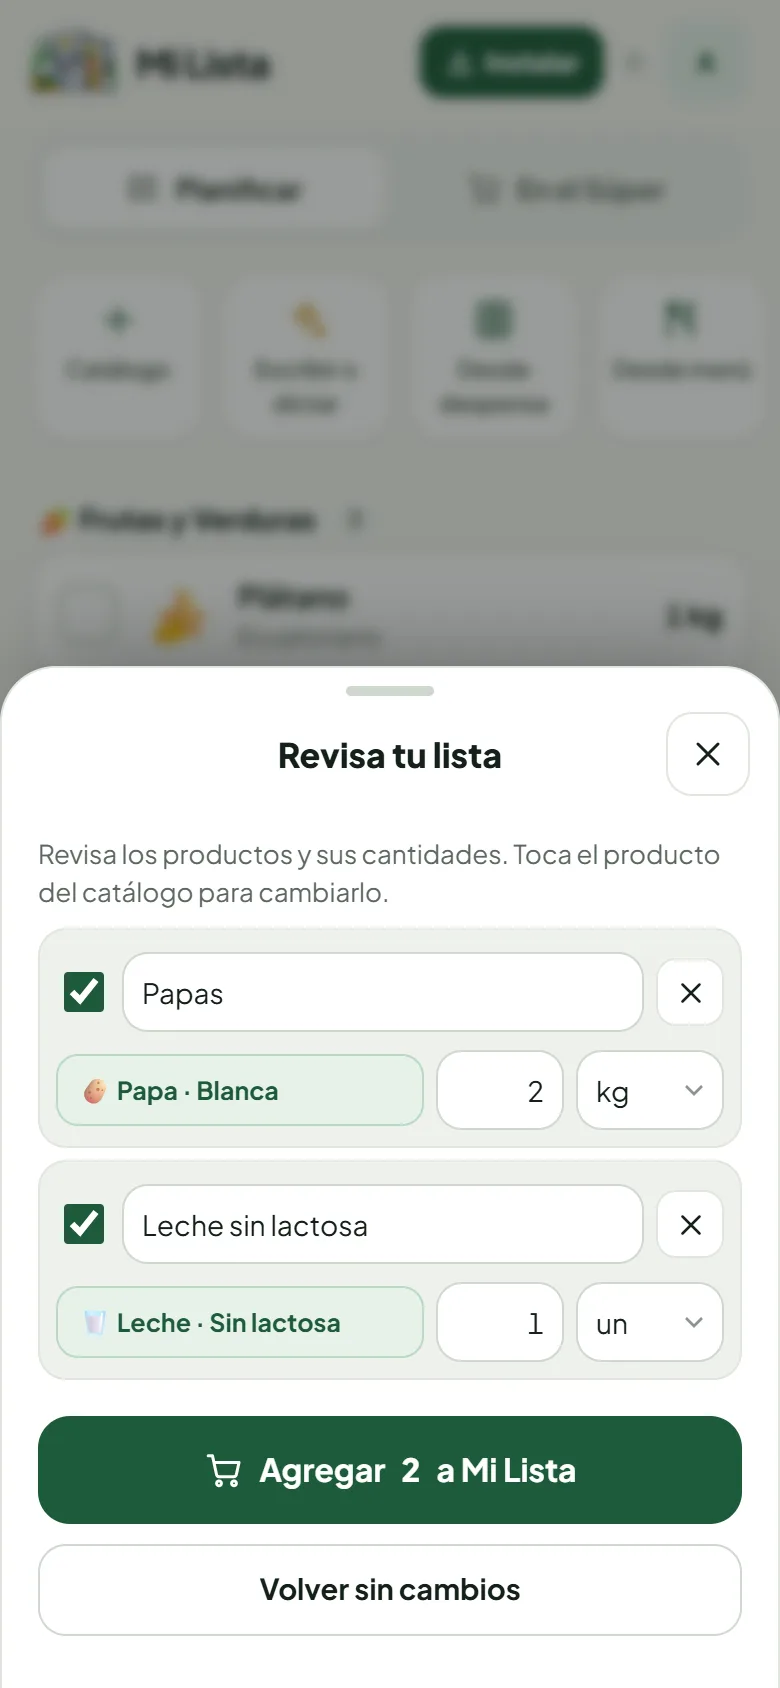
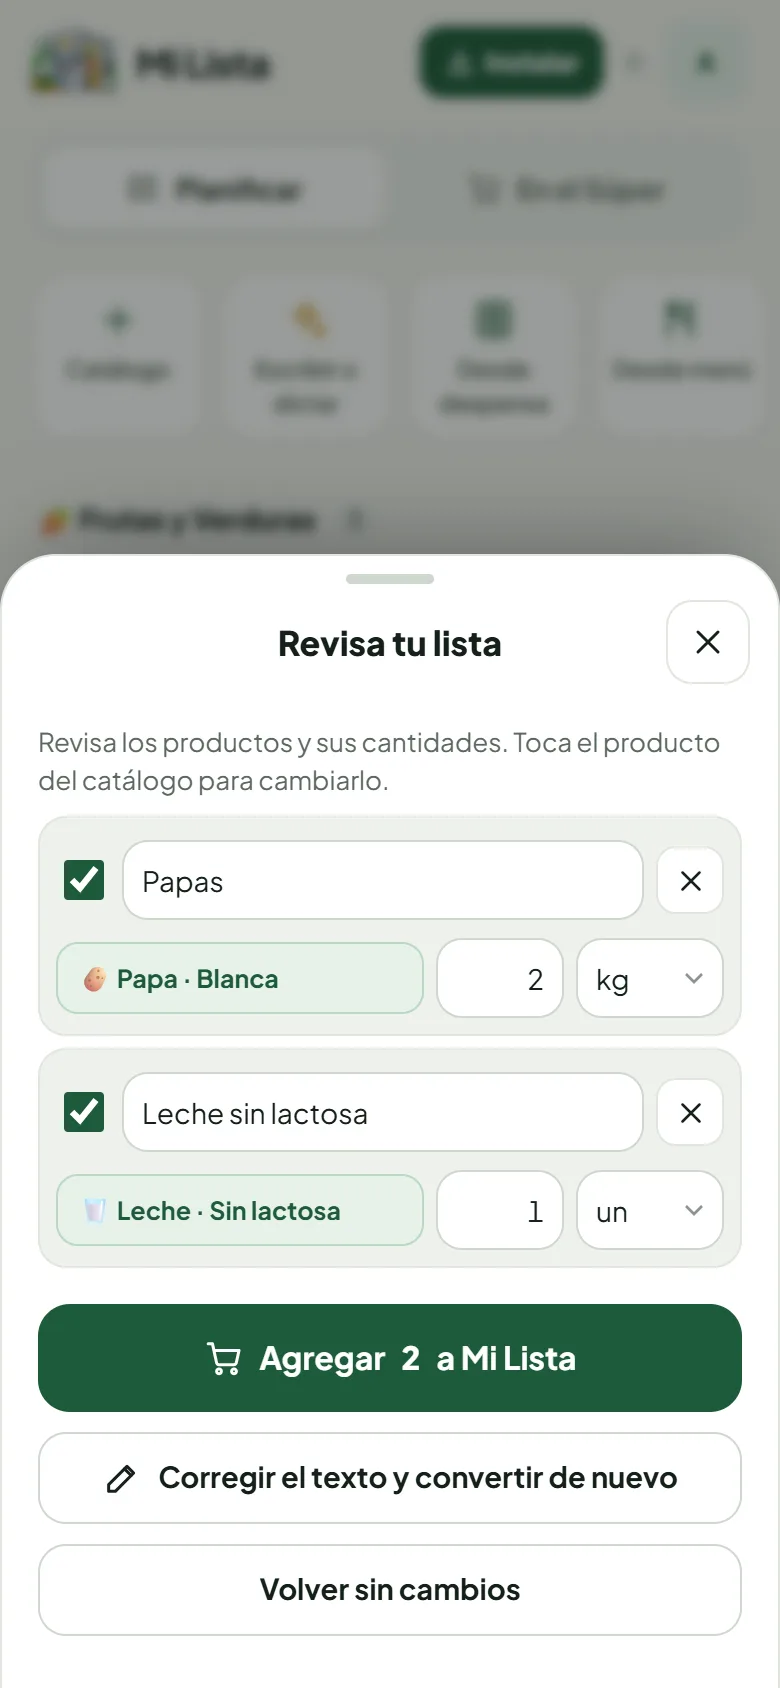
v2.1.0: "Plata" pasa a "Gastos" y dictado que entiende correcciones
- La sección Plata ahora se llama Gastos (app, manual, manifest, README)
- La IA aplica las correcciones al dictar ("no, mejor 3", "olvida la leche", "digo")
- Volver a corregir el texto desde la revisión de la lista; dictado en el Chef IA
- Se muestra que dictar no gasta y cuántos usos de IA quedan
- Manual: explicación de correcciones y uso, pregunta frecuente nueva

diff --git a/js/views/ai.js b/js/views/ai.js
@@ -108,7 +108,7 @@ const AIView = (() => {
       ${UI.chips(Money.CATS.filter(([c]) => c !== 'Ajuste').map(([c, e]) => [c, `${e} ${c}`]), h.categoria, 'aiCat')}
       <label class="lbl">Detalle</label><input value="${esc(h.detalle)}" placeholder="Ej: Compra semanal (verduras, lácteos)" data-input="aiHead" data-f="detalle">
       <label class="ai-switch"><input type="checkbox" ${rv.pantry ? 'checked' : ''} data-change="aiPantryOn"><span><b>Guardar productos en la despensa</b><small>Agrega a la despensa los productos marcados.</small></span></label>
-      ${rv.dest === 'despensa' ? `<label class="ai-switch"><input type="checkbox" ${rv.expense ? 'checked' : ''} data-change="aiExpenseOn"><span><b>Registrar también el gasto</b><small>Crea el gasto en Plata con la boleta de respaldo.</small></span></label>` : ''}
+      ${rv.dest === 'despensa' ? `<label class="ai-switch"><input type="checkbox" ${rv.expense ? 'checked' : ''} data-change="aiExpenseOn"><span><b>Registrar también el gasto</b><small>Crea también el gasto, con la boleta de respaldo.</small></span></label>` : ''}
       <div class="btn-col">
         <button class="btn primary block lg" data-act="aiUseBoleta">${ico('check')} Usar estos datos</button>
         <button class="btn ghost block" data-act="aiCancel">Volver sin cambios</button>
@@ -162,15 +162,19 @@ const AIView = (() => {
         </div>`).join('') || UI.empty('search', 'No se encontró nada', 'Intenta con otra foto o escribe los productos.')}</div>
       <div class="btn-col">
         <button class="btn primary block lg" data-act="aiListGo">${ico(isList ? 'cart' : 'pantry')} Agregar <b id="aiGoCount">${rv.rows.filter(r => r.on).length}</b> a ${isList ? 'Mi Lista' : 'la despensa'}</button>
+        ${isList ? `<button class="btn ghost block" data-act="aiListBack">${ico('edit')} Corregir el texto y convertir de nuevo</button>` : ''}
         <button class="btn ghost block" data-act="aiCancel">Volver sin cambios</button>
       </div>`;
   }
+  // Vuelve al texto (se conserva) para corregirlo; reconvertir usa 1 uso de IA
+  Actions.aiListBack = () => { run++; UI.replace('Lista con IA', listaSheet); };
   Actions.aiListGo = () => {
     const rows = rv.rows.filter(r => r.on && r.cant > 0);
     if (!rows.length) { UI.toast('No hay productos marcados', { type: 'err' }); return; }
     if (rv.kind === 'lista') {
       rows.forEach(r => { const m = r.m || AI.ensureCustom(r.nombre, AI.unit(r.unidad)); Shop.add(m.c, m.i, m.v, r.cant, AI.unit(r.unidad), '· con IA'); });
       Store.log('shop', `agregó ${rows.length} productos a la lista con IA`);
+      draftText = '';
     } else {
       toPantry(rows);
       Store.log('pantry', `agregó ${rows.length} productos a la despensa desde una foto (IA)`);
@@ -197,24 +201,29 @@ const AIView = (() => {
   let draftText = '';
   function listaSheet() {
     const Rec = window.SpeechRecognition || window.webkitSpeechRecognition;
-    return `<p class="hint">Escribe o dicta lo que necesitas, como se lo dirías a alguien. La IA lo convierte en tu lista.</p>
+    return `<p class="hint">Escribe o dicta lo que necesitas, como se lo dirías a alguien. Si te equivocas, corrígete hablando ("no, mejor 3 kilos") o edita el texto antes de convertir.</p>
       <textarea id="aiText" rows="5" placeholder="Ej: 2 kilos de papas, leche sin lactosa, pan para la once y algo para el asado del sábado" data-input="aiText">${esc(draftText)}</textarea>
-      ${Rec ? `<button class="btn ghost block" data-act="aiMic" id="aiMicBtn">${ico('mic')} Dictar</button>` : ''}
+      ${Rec ? `<button class="btn ghost block" data-act="aiMic" data-target="aiText">${ico('mic')} Dictar</button>` : ''}
       <div class="chips">${['Lo de siempre para el desayuno', 'Algo para el asado', 'Once para 6 personas', 'Útiles de aseo del mes'].map(x => `<button class="chip" data-act="aiExample" data-val="${esc(x)}">${esc(x)}</button>`).join('')}</div>
-      <button class="btn primary block lg" data-act="aiListaGo">${ico('sparkles')} Convertir en lista</button>`;
+      <button class="btn primary block lg" data-act="aiListaGo">${ico('sparkles')} Convertir en lista</button>
+      <p class="hint center">${ico('info')} Dictar y editar no gastan nada; cada “Convertir” usa 1 de tus usos de IA del día${AI.left() != null ? ` (te quedan ${AI.left()})` : ''}.</p>`;
   }
   Actions.aiText = el => { draftText = el.value; };
   Actions.aiExample = el => { draftText = (draftText ? draftText.trim() + ', ' : '') + el.dataset.val.toLowerCase(); UI.refresh(); };
+  // Dictado con el reconocimiento de voz del teléfono (no usa la IA ni gasta usos)
   let rec = null;
   Actions.aiMic = el => {
     const Rec = window.SpeechRecognition || window.webkitSpeechRecognition;
     if (rec) { rec.stop(); return; }
-    rec = new Rec(); rec.lang = 'es-CL'; rec.interimResults = false; rec.continuous = true;
-    const base = draftText ? draftText.trim() + ', ' : '';
-    let said = '';
-    rec.onresult = e => { said = [...e.results].map(r => r[0].transcript).join(' '); const t = $('#aiText'); draftText = base + said; if (t) t.value = draftText; };
-    rec.onend = () => { rec = null; const b = $('#aiMicBtn'); if (b) b.innerHTML = `${ico('mic')} Dictar`; };
-    rec.onerror = () => { UI.toast('No se pudo usar el micrófono', { type: 'err' }); };
+    const target = el.dataset.target || 'aiText';
+    const box = () => $('#' + target);
+    const save = v => { if (target === 'chefPedido') chef.pedido = v; else draftText = v; };
+    const start = (box() || {}).value || '';
+    const base = start.trim() ? start.trim() + (target === 'chefPedido' ? ' ' : ', ') : '';
+    rec = new Rec(); rec.lang = 'es-CL'; rec.interimResults = true; rec.continuous = true;
+    rec.onresult = e => { const said = [...e.results].map(r => r[0].transcript).join(' '); const v = base + said; save(v); const t = box(); if (t) t.value = v; };
+    rec.onend = () => { rec = null; const btn = $(`[data-act="aiMic"][data-target="${target}"]`); if (btn) btn.innerHTML = `${ico('mic')} Dictar`; };
+    rec.onerror = ev => { if (ev.error !== 'aborted' && ev.error !== 'no-speech') UI.toast('No se pudo usar el micrófono', { type: 'err' }); };
     rec.start();
     el.innerHTML = `${ico('mic')} Escuchando… toca para terminar`;
   };
@@ -231,7 +240,6 @@ const AIView = (() => {
       if (!alive(my)) return;
       rv = { kind: 'lista', retry: rv.retry, rows: j.data.items.map(it => ({ ...it, m: AI.match(it), on: true })) };
       UI.replace('Revisa tu lista', listSheet);
-      draftText = '';
     } catch (e) { fail(my, e, rv.retry); }
   };
   function openLista() { if (!can()) return; UI.open('Lista con IA', listaSheet); }
@@ -250,6 +258,7 @@ const AIView = (() => {
       ${UI.chips([['', 'Sin apuro'], ['15 minutos', '15 min'], ['30 minutos', '30 min'], ['1 hora', '1 hora']], chef.tiempo, 'chefTiempo')}
       <label class="lbl">¿Qué se te antoja? <small class="hint">(opcional)</small></label>
       <input id="chefPedido" value="${esc(chef.pedido)}" placeholder="Ej: algo calentito, sin horno, para llevar al trabajo…">
+      ${window.SpeechRecognition || window.webkitSpeechRecognition ? `<button class="btn ghost sm block" data-act="aiMic" data-target="chefPedido">${ico('mic')} Dictar</button>` : ''}
       ${restr.length ? `<div class="info">${ico('leaf')} Respetará: ${restr.map(esc).join(' · ')}</div>` : ''}
       <button class="btn primary block lg" data-act="chefGo">${ico('sparkles')} Proponer receta</button>`;
   }
@@ -261,7 +270,7 @@ const AIView = (() => {
   Actions.chefVenc = el => { chef.venc = el.checked; };
   Actions.chefPeople = el => { chef.pedido = ($('#chefPedido') || {}).value || chef.pedido; chef.people = Math.max(1, chef.people + (+el.dataset.d)); UI.refresh(); };
   Actions.chefTiempo = el => { chef.pedido = ($('#chefPedido') || {}).value || chef.pedido; chef.tiempo = el.dataset.val; UI.refresh(); };
-  Actions.chefGo = () => { const p = $('#chefPedido'); if (p) chef.pedido = p.value.trim(); UI.close(); chefCall(); };
+  Actions.chefGo = () => { if (rec) rec.stop(); const p = $('#chefPedido'); if (p) chef.pedido = p.value.trim(); UI.close(); chefCall(); };
   async function chefCall() {
     const all = Pantry.entries().filter(e => !Pantry.isEmpty(e));
     const exp = chef.venc ? Pantry.expiring().filter(e => !Pantry.isEmpty(e)) : [];
@@ -347,7 +356,7 @@ const AIView = (() => {
             method: res.medioPago || 'Débito', docType: res.tipoDoc || 'Boleta', docNum: res.nDoc, photos: photoId ? [photoId] : [], files: docMeta ? [docMeta] : [], notes: 'Leída con IA', items, created: Store.now(), t: Store.now(),
           });
           Store.log('money', `registró una boleta de ${Money.fmt(res.total)} leída con IA`);
-          UI.toast(`Gasto de ${Money.fmt(res.total)} registrado en Plata`, { icon: 'receipt' });
+          UI.toast(`Gasto de ${Money.fmt(res.total)} registrado en Gastos`, { icon: 'receipt' });
         }
         Store.commit();
       },

diff --git a/manual/index.html b/manual/index.html
@@ -67,7 +67,7 @@
     <h1>Manual de uso</h1>
     <p>Todo lo que necesitas para controlar la despensa, comprar sin salirte del presupuesto, planificar el menú y llevar las cuentas claras del hogar.</p>
     <div class="meta">
-      <span class="tag">Versión 2.0.0</span>
+      <span class="tag">Versión 2.1.0</span>
       <span class="tag">Actualizado: 1 de noviembre de 2026</span>
       <span class="tag">37 pantallas</span>
     </div><br>
@@ -76,7 +76,7 @@
 
   <nav class="toc"><div class="wrap">
     <a href="#instalar">Instalar</a><a href="#inicio">Primeros pasos</a><a href="#despensa">Despensa</a><a href="#lista">Lista y Súper</a>
-    <a href="#menu">Menú y recetas</a><a href="#salud">Dietas y salud</a><a href="#plata">Plata</a><a href="#digitales">Boletas digitales</a><a href="#separadas">Cuentas separadas</a><a href="#ia">Funciones con IA</a><a href="#hogar">Hogares</a><a href="#apariencia">Apariencia</a><a href="#faq">Preguntas</a><a href="#cambios">Novedades</a>
+    <a href="#menu">Menú y recetas</a><a href="#salud">Dietas y salud</a><a href="#plata">Gastos</a><a href="#digitales">Boletas digitales</a><a href="#separadas">Cuentas separadas</a><a href="#ia">Funciones con IA</a><a href="#hogar">Hogares</a><a href="#apariencia">Apariencia</a><a href="#faq">Preguntas</a><a href="#cambios">Novedades</a>
   </div></nav>
 
   <main class="wrap">
@@ -330,7 +330,7 @@
     </section>
 
     <section class="ch" id="plata">
-      <h2><span class="n">7</span>Plata: presupuesto, gastos y cuentas claras</h2>
+      <h2><span class="n">7</span>Gastos: presupuesto, boletas y cuentas claras</h2>
       <div class="step">
         <div class="phone"><img src="img/17-plata.webp" alt="Finanzas" loading="lazy"></div>
         <div>
@@ -396,7 +396,7 @@
         <div>
           <h3>Dónde está</h3>
           <ul>
-            <li>En <b>Plata</b>, botón verde <b>Cuentas separadas</b>: elige una boleta del historial o crea una <b>Nueva boleta dividida</b>.</li>
+            <li>En <b>Gastos</b>, botón verde <b>Cuentas separadas</b>: elige una boleta del historial o crea una <b>Nueva boleta dividida</b>.</li>
             <li>Dentro de cualquier gasto del historial, recuadro <b>Cuentas separadas → Dividir</b> (o <b>Editar</b> si ya está dividida).</li>
             <li>Las boletas divididas muestran la etiqueta <b>dividida</b> en Movimientos.</li>
           </ul>
@@ -454,7 +454,7 @@
           <h3>Despensa con IA</h3>
           <p>En <b>Despensa</b>, el botón ✦ junto al buscador ofrece dos opciones:</p>
           <ul>
-            <li><b>Boleta del súper:</b> pasa lo comprado a la despensa y, si quieres, registra el gasto en Plata con la boleta de respaldo.</li>
+            <li><b>Boleta del súper:</b> pasa lo comprado a la despensa y, si quieres, registra el gasto con la boleta de respaldo.</li>
             <li><b>Foto del refri o la despensa:</b> la IA reconoce los productos que se ven y propone el inventario. Los dudosos vienen desmarcados.</li>
           </ul>
           <p class="tip">Toca el recuadro celeste de cada fila para cambiar el producto del catálogo; si no hay coincidencia aparece en amarillo “Elegir producto”.</p>
@@ -470,6 +470,8 @@
             <li>Si pides algo general (“algo para el asado”), la IA propone productos típicos marcados como <b>sugerido</b>.</li>
             <li>Revisa cantidades y productos, y toca <b>Agregar a Mi Lista</b>.</li>
           </ol>
+          <p class="tip"><b>¿Te enredaste?</b> Corrígete hablando, como con una persona: “2 kilos de papas, no, mejor 3”, “leche… no, olvida la leche” o “arroz, digo, fideos”. La IA se queda con tu última decisión. También puedes editar el texto antes de convertir, o tocar <b>Corregir el texto y convertir de nuevo</b> desde la revisión.</p>
+          <p class="tip"><b>¿Gasta?</b> Dictar y editar el texto lo hace el teléfono y no usa la IA. Solo cada vez que tocas <b>Convertir</b> se usa 1 de tus 40 usos diarios. Todo es gratis.</p>
         </div>
       </div>
       <div class="step rev">
@@ -481,6 +483,7 @@
             <li>Elige personas, tiempo y, si quieres, lo que se te antoja. Propone <b>una receta casera</b> que prioriza lo que vence y respeta las dietas, alergias y condiciones de salud de la casa.</li>
             <li>Muestra qué ingredientes tienes y cuáles faltan. Con <b>Guardar en mi recetario</b> queda como receta propia: desde ahí puedes agendarla, mandar los faltantes a la lista o cocinarla, con los mismos <b>avisos de salud</b> de siempre.</li>
             <li><b>Otra idea</b> pide una receta distinta.</li>
+            <li>En “¿Qué se te antoja?” también puedes tocar <b>Dictar</b>; si cambias de idea al hablar (“algo con pollo, no, mejor sin carne”), se respeta lo último que dijiste.</li>
           </ul>
         </div>
       </div>
@@ -552,6 +555,7 @@
 
     <section class="ch" id="faq">
       <h2><span class="n">?</span>Preguntas frecuentes</h2>
+      <details><summary>Si dicto la lista y me equivoco, ¿qué pasa?</summary><p>La IA entiende correcciones habladas (“no, mejor…”, “olvida…”, “digo…”) y usa tu última decisión. Antes de agregar nada siempre ves la lista para corregir cantidades, quitar productos o volver al texto. Dictar no gasta usos de IA; solo cada “Convertir”.</p></details>
       <details><summary>¿Funciona sin internet?</summary><p>Sí. Todo se guarda en el teléfono. Si el hogar es compartido, los cambios se sincronizan al recuperar la conexión. Solo la lectura automática de boletas necesita internet.</p></details>
       <details><summary>¿Dónde quedan las fotos de las boletas?</summary><p>En el teléfono, comprimidas. En un hogar compartido también se suben para que los demás las vean.</p></details>
       <details><summary>Cambié algo y otro integrante también, ¿se pierde algo?</summary><p>No. La app combina los cambios producto por producto y gasto por gasto; si dos personas editan el mismo producto, queda el último cambio.</p></details>
@@ -561,6 +565,15 @@
 
     <section class="ch" id="cambios">
       <h2><span class="n">★</span>Novedades</h2>
+      <div class="log">
+        <h4>Versión 2.1.0 — 1 de noviembre de 2026</h4>
+        <ul>
+          <li>La sección <b>Plata</b> ahora se llama <b>Gastos</b>.</li>
+          <li>La IA entiende correcciones al dictar (“no, mejor 3 kilos”, “olvida la leche”).</li>
+          <li>Botón <b>Corregir el texto y convertir de nuevo</b> en la revisión de la lista; dictado también en el Chef IA.</li>
+          <li>Se indica cuántos usos de IA quedan y que dictar no gasta.</li>
+        </ul>
+      </div>
       <div class="log">
         <h4>Versión 2.0.0 — 1 de noviembre de 2026</h4>
         <ul>
@@ -589,7 +602,7 @@
       <div class="log">
         <h4>Versión 1.2.0 — 26 de octubre de 2026</h4>
         <ul>
-          <li>Nuevo módulo <b>Cuentas separadas</b> en Plata: dividir una boleta por productos y personas, con nombres y precios editables, personas externas al hogar, aportes de varios pagadores y la boleta como respaldo.</li>
+          <li>Nuevo módulo <b>Cuentas separadas</b> en Gastos: dividir una boleta por productos y personas, con nombres y precios editables, personas externas al hogar, aportes de varios pagadores y la boleta como respaldo.</li>
           <li>Cuentas claras, el Informe PDF y el CSV consideran las boletas divididas.</li>
         </ul>
       </div>
@@ -619,6 +632,6 @@
     </section>
   </main>
 
-  <footer class="wrap">despensAPP · Manual de uso v2.0.0 · <a href="../">Volver a la app</a></footer>
+  <footer class="wrap">despensAPP · Manual de uso v2.1.0 · <a href="../">Volver a la app</a></footer>
 </body>
 </html>

diff --git a/js/app.js b/js/app.js
@@ -1,12 +1,12 @@
 /* despensAPP · Arranque, navegación y onboarding */
 const App = (() => {
-  const VERSION = '2.0.0';
+  const VERSION = '2.1.0';
   const TABS = {
     home:   { title: 'Inicio',    icon: 'home',   view: () => HomeView },
     pantry: { title: 'Despensa',  icon: 'pantry', view: () => PantryView },
     shop:   { title: 'Mi Lista',  icon: 'cart',   view: () => ShopView },
     menu:   { title: 'Menú',      icon: 'menu',   view: () => MenuView },
-    money:  { title: 'Plata',     icon: 'wallet', view: () => MoneyView },
+    money:  { title: 'Gastos',     icon: 'wallet', view: () => MoneyView },
     hogar:  { title: 'Hogar',     icon: 'users',  view: () => HogarView, hidden: true },
   };
   const A = { VERSION, tab: 'home', ready: false };
@@ -55,7 +55,7 @@ const App = (() => {
     return `<div class="onb">
       <picture class="onb-logo"><source srcset="img/logo.webp" type="image/webp"><img src="img/logo.png" alt="despensAPP"></picture>
       <h2>Bienvenido a despensAPP</h2>
-      <p class="sub">Despensa, lista del súper, menú y plata del hogar, conectados.</p>
+      <p class="sub">Despensa, lista del súper, menú y gastos del hogar, conectados.</p>
       <label class="lbl">¿Cómo se llama tu hogar?</label>
       <input id="obHome" value="${esc(ob.home)}" placeholder="Ej: Casa Ñuñoa">
       <label class="lbl">Tu nombre</label>

diff --git a/sw.js b/sw.js
@@ -2,7 +2,7 @@
  * - Archivos propios (HTML/CSS/JS): Network-First → siempre la última versión, con respaldo offline.
  * - Recursos estáticos (vendor/, icons/, CDN): Cache-First.
  */
-const VERSION = 'despensapp-v2.0.0';
+const VERSION = 'despensapp-v2.1.0';
 const CORE = [
   './', './index.html', './manifest.webmanifest', './firebase-config.js', './css/app.css',
   './js/icons.js', './js/catalog.js', './js/core.js', './js/recipes.js', './js/ui.js', './js/photos.js', './js/docs.js', './js/sync.js', './js/export.js', './js/ai.js',

diff --git a/js/views/split.js b/js/views/split.js
@@ -35,7 +35,7 @@ const SplitView = (() => {
     sp.split.contrib = me ? [{ who: me, amount: 0 }] : [];
     UI.open('Nueva boleta dividida', render, b => Photos.hydrate(b), { tall: true });
   }
-  // Lista de boletas para elegir (botón "Cuentas separadas" de Plata)
+  // Lista de boletas para elegir (botón "Cuentas separadas" de Gastos)
   function picker() {
     const list = Money.list().filter(e => e.cat !== 'Ajuste').slice(0, 40);
     UI.open('Cuentas separadas', () => `

diff --git a/README.md b/README.md
@@ -56,7 +56,7 @@ js/
   photos.js    Boletas en IndexedDB
   export.js    PDF, CSV y PNG
   ui.js        Hojas inferiores, toasts, confirmación en dos toques
-  views/       Inicio, Despensa, Lista, Menú, Plata, Hogar, selector de catálogo
+  views/       Inicio, Despensa, Lista, Menú, Gastos, Hogar, selector de catálogo
   docs.js      Boletas digitales: PDF (pdf.js) y Word (.docx leído en el teléfono)
   ai.js        Cliente de IA: envío de foto/texto y conversión al catálogo (sin IA)
 worker/        Intermediario de IA (Cloudflare Worker): index.mjs, tasks.mjs, wrangler.toml
